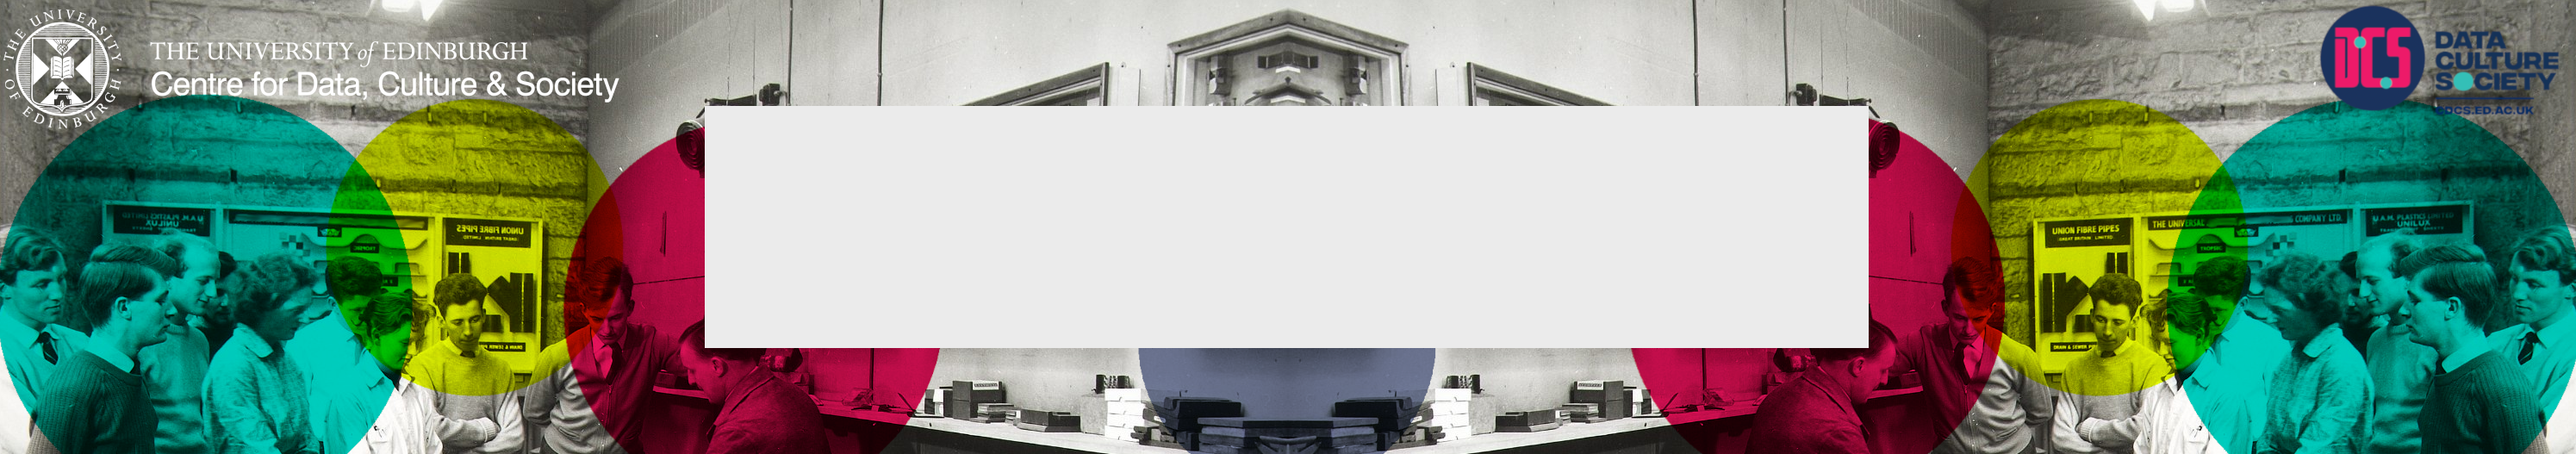
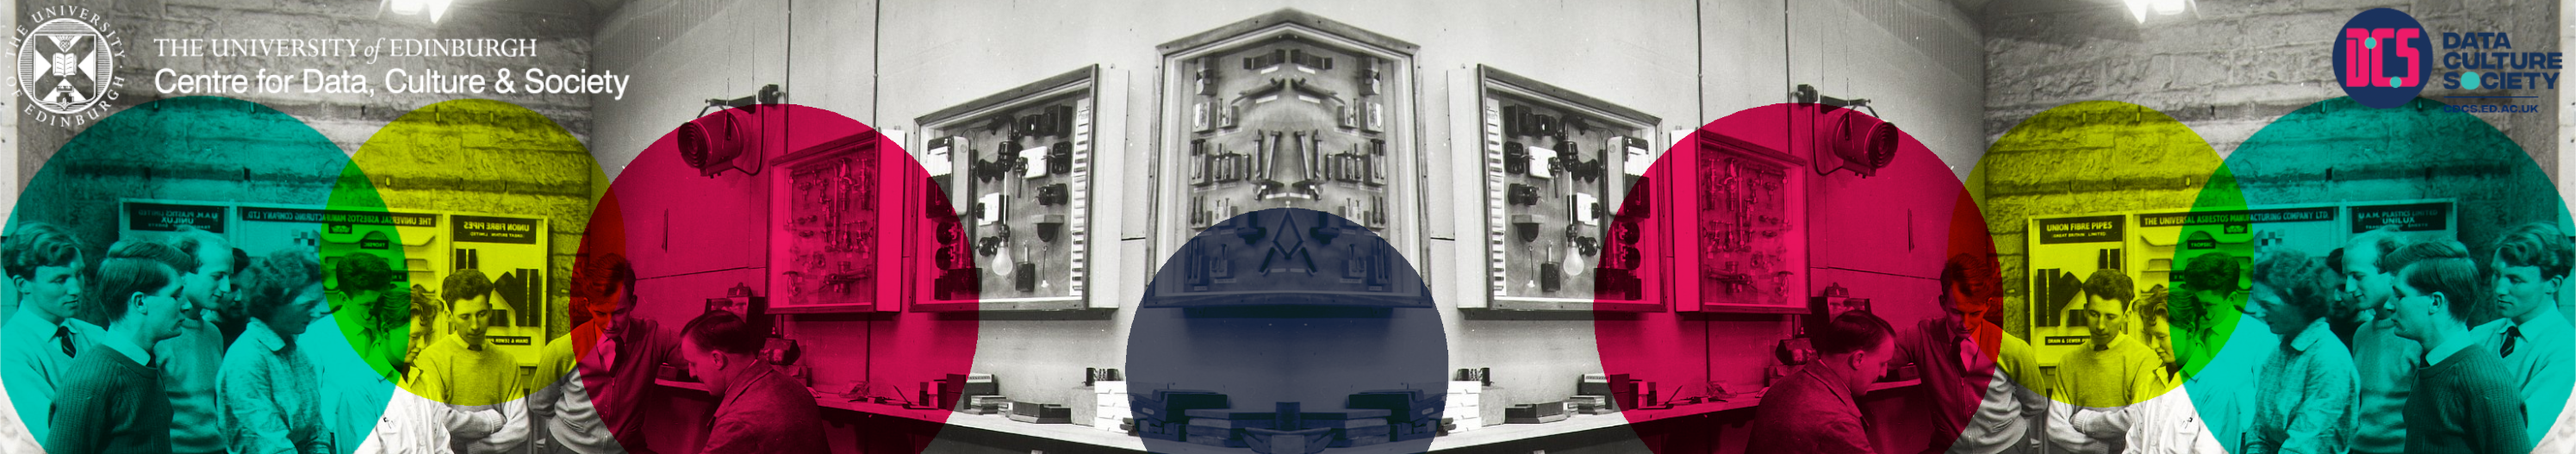
Update images
Move images from CDCS website to Repo

diff --git a/index.md b/index.md
@@ -3,7 +3,7 @@ title:
 feature_text: |
   ## CDCS Training Material
   "Collaboration and community are at the heart of what we do"
-feature_image: "https://www.cdcs.ed.ac.uk/files/2024-08/BannerImage.png"
+feature_image: "images/BannerImage.png"
 excerpt: "This page is set up to facilitate the use of the CDCS repositories."
 ---
 <html>
@@ -19,7 +19,7 @@ excerpt: "This page is set up to facilitate the use of the CDCS repositories."
         <div class="row">
         <div class="column">
         <h4>Good Practices of Digital Research</h4>
-        <img src="https://www.cdcs.ed.ac.uk/files/2023-10/Group%20in%20workshop.png" alt="Image 1">
+        <img src="images/Group in workshop.png" alt="Image 1">
   <ul>
            <li><a href="Tutorials/SPSSTutorial.html" target="_blank">Make your Statistical Analysis Reproducible (From SPSS to R)</a></li>
            <li><a href="Tutorials/ShinyApps.html" target="_blank">Share your research Results with Interactive Applications (SHINY)</a></li>
@@ -35,7 +35,7 @@ excerpt: "This page is set up to facilitate the use of the CDCS repositories."
         </div>
         <div class="column">
         <h4>Digitised Document & Text Analysis</h4>
-        <img src="https://www.cdcs.ed.ac.uk/files/2023-09/Recordings.png" alt="Image 3">
+        <img src="images/Recordings.png" alt="Image 3">
         <ul>
         <li><a href="Tutorials/MappingAFamilyNetwork.html" target="_blank">Mapping a Family Network with Gephi</a></li>
            <li><a href="Tutorials/DecipheringAFinancialNetwork.html" target="_blank">Deciphering a Financial Network with Gephi</a></li>
@@ -46,21 +46,21 @@ excerpt: "This page is set up to facilitate the use of the CDCS repositories."
         <div class="row">
         <div class="column">
         <h4>Data Wrangling & Data Visualisation</h4>
-        <img src="https://www.cdcs.ed.ac.uk/files/2023-09/weaving%20black%20and%20white.png" alt="Image 4">
+        <img src="images/weaving black and white.png" alt="Image 4">
          <ul>
            <li>More to Come Soon</li>
         </ul>
         </div>
         <div class="column">
         <h4>Geographical Data & Digital Drawing </h4>
-        <img src="https://www.cdcs.ed.ac.uk/files/2023-09/Atlas%20Black%20and%20white.png" alt="Image 5">
+        <img src="images/Atlas Black and white.png" alt="Image 5">
          <ul>
            <li>More to Come Soon</li>
         </ul>
         </div>
         <div class="column">
         <h4>Structured Data Analysis</h4>
-        <img src="https://www.cdcs.ed.ac.uk/files/2023-09/Typewriter%20black%20and%20white.png" alt="Image 6">
+        <img src="images/Typewriter black and white.png" alt="Image 6">
          <ul>
            <li><a href="Tutorials/bayesian-statistics.html">Introduction to Bayesian Statistics</a></li>
            <li>More to Come Soon</li>
@@ -95,6 +95,7 @@ excerpt: "This page is set up to facilitate the use of the CDCS repositories."
     <h3>Research Adaptation: Guidance and Case Studies</h3> 
     <p> In June 2021, the Centre for Data, Culture & Society and the Research Office of the College of Arts, Humanities and Social Sciences held three online workshops focused on adapting approaches to research in the context of ongoing remote and hybrid working.  Each workshop focused on one research area that has been significantly impacted by social distancing measures, with the aim of capturing ideas, resources, advice and tips from the community to share more widely. As a part of this work we were also able to resource the development of ethics guidance for social media research, and to gather a set of 'research adaptation case studies' provided by local researchers. While there is now a considerable amount of general resources and guidance available, we wanted to explore what is required locally for our community to move forward and invest in developing hybrid and remote research methods. </p>
     <h4> <a href="research-adaptation.html" target="blank">Explore More </a> </h4>
+    <p></p>
     <h1> Contacts </h1>
     <p>
      {% include button.html text="Email Us" link="mailto:CDCS@ed.ac.uk" color="#fd0e67" %} 
